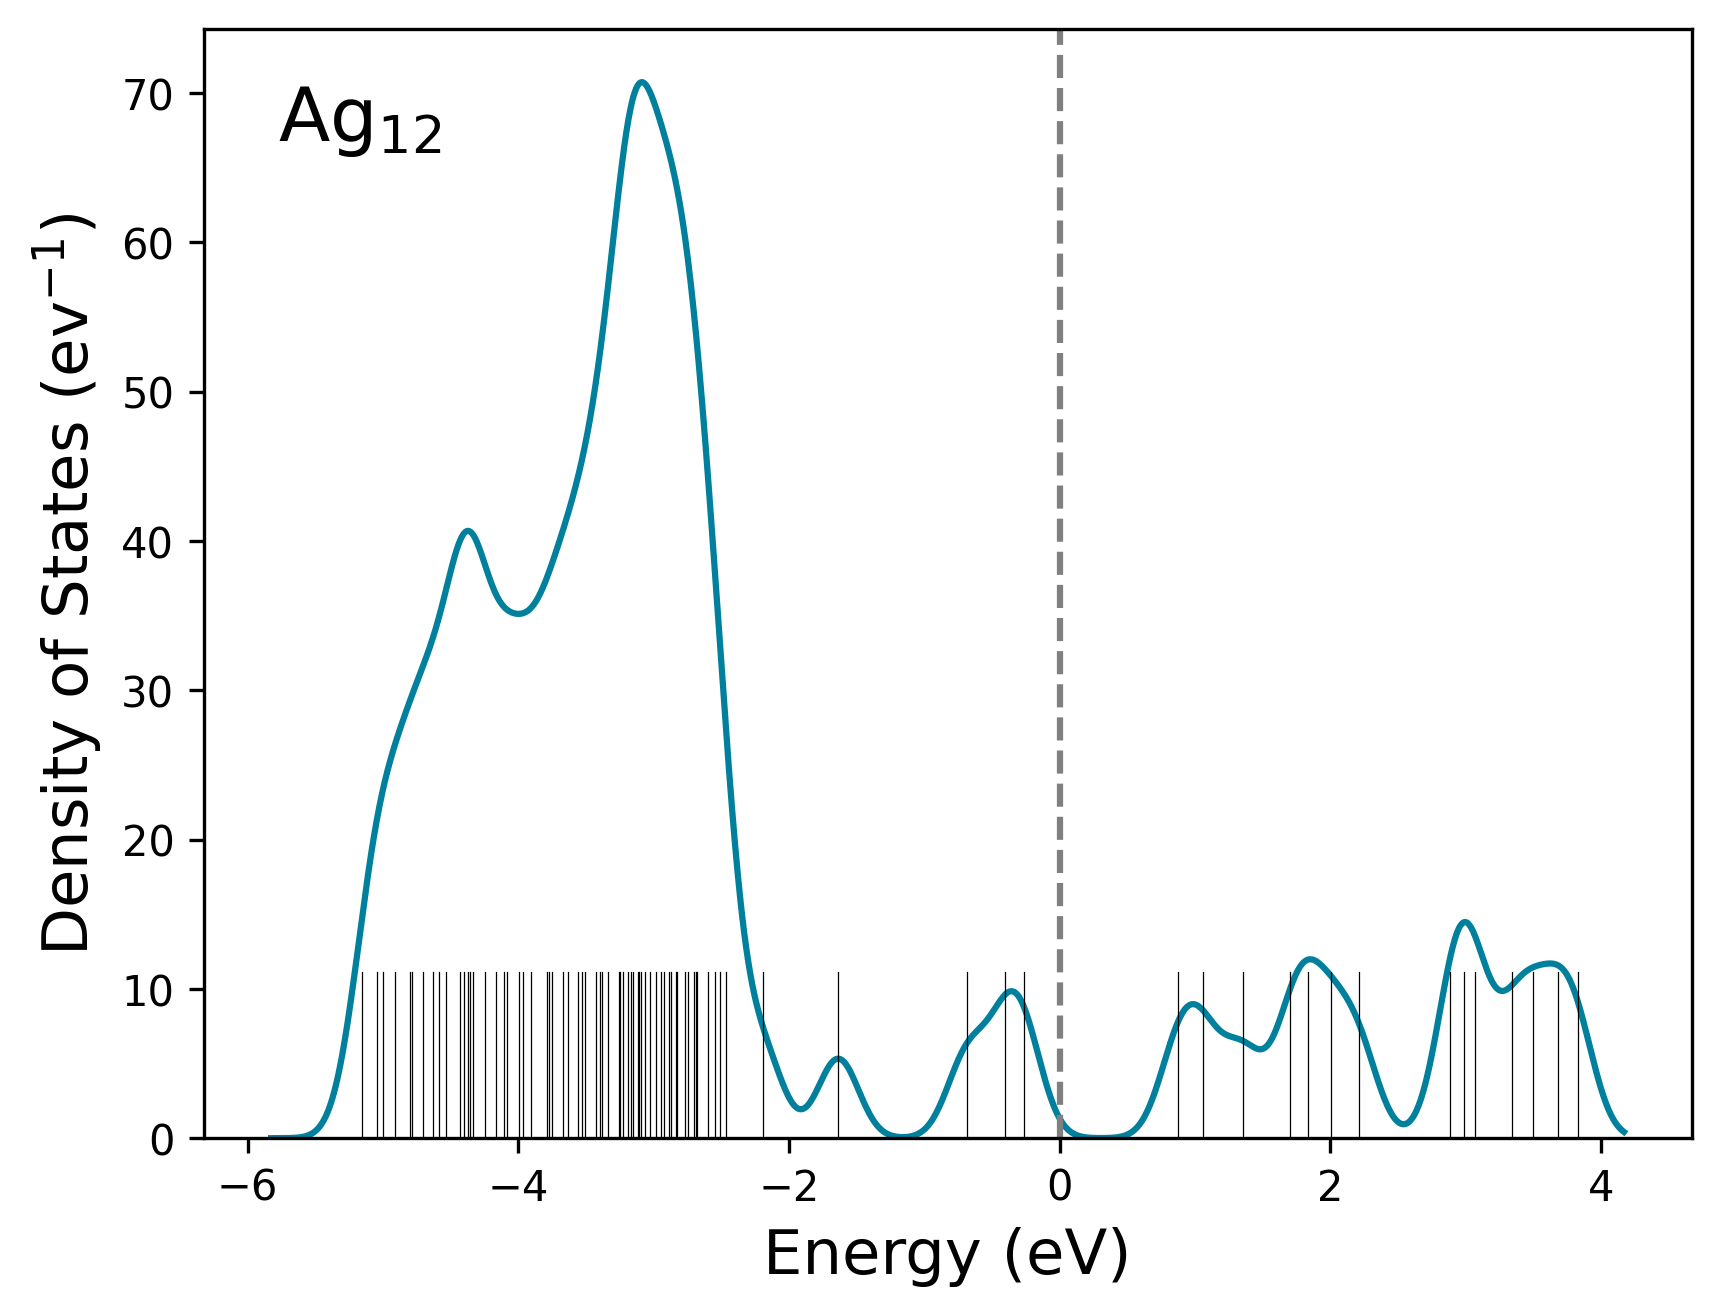
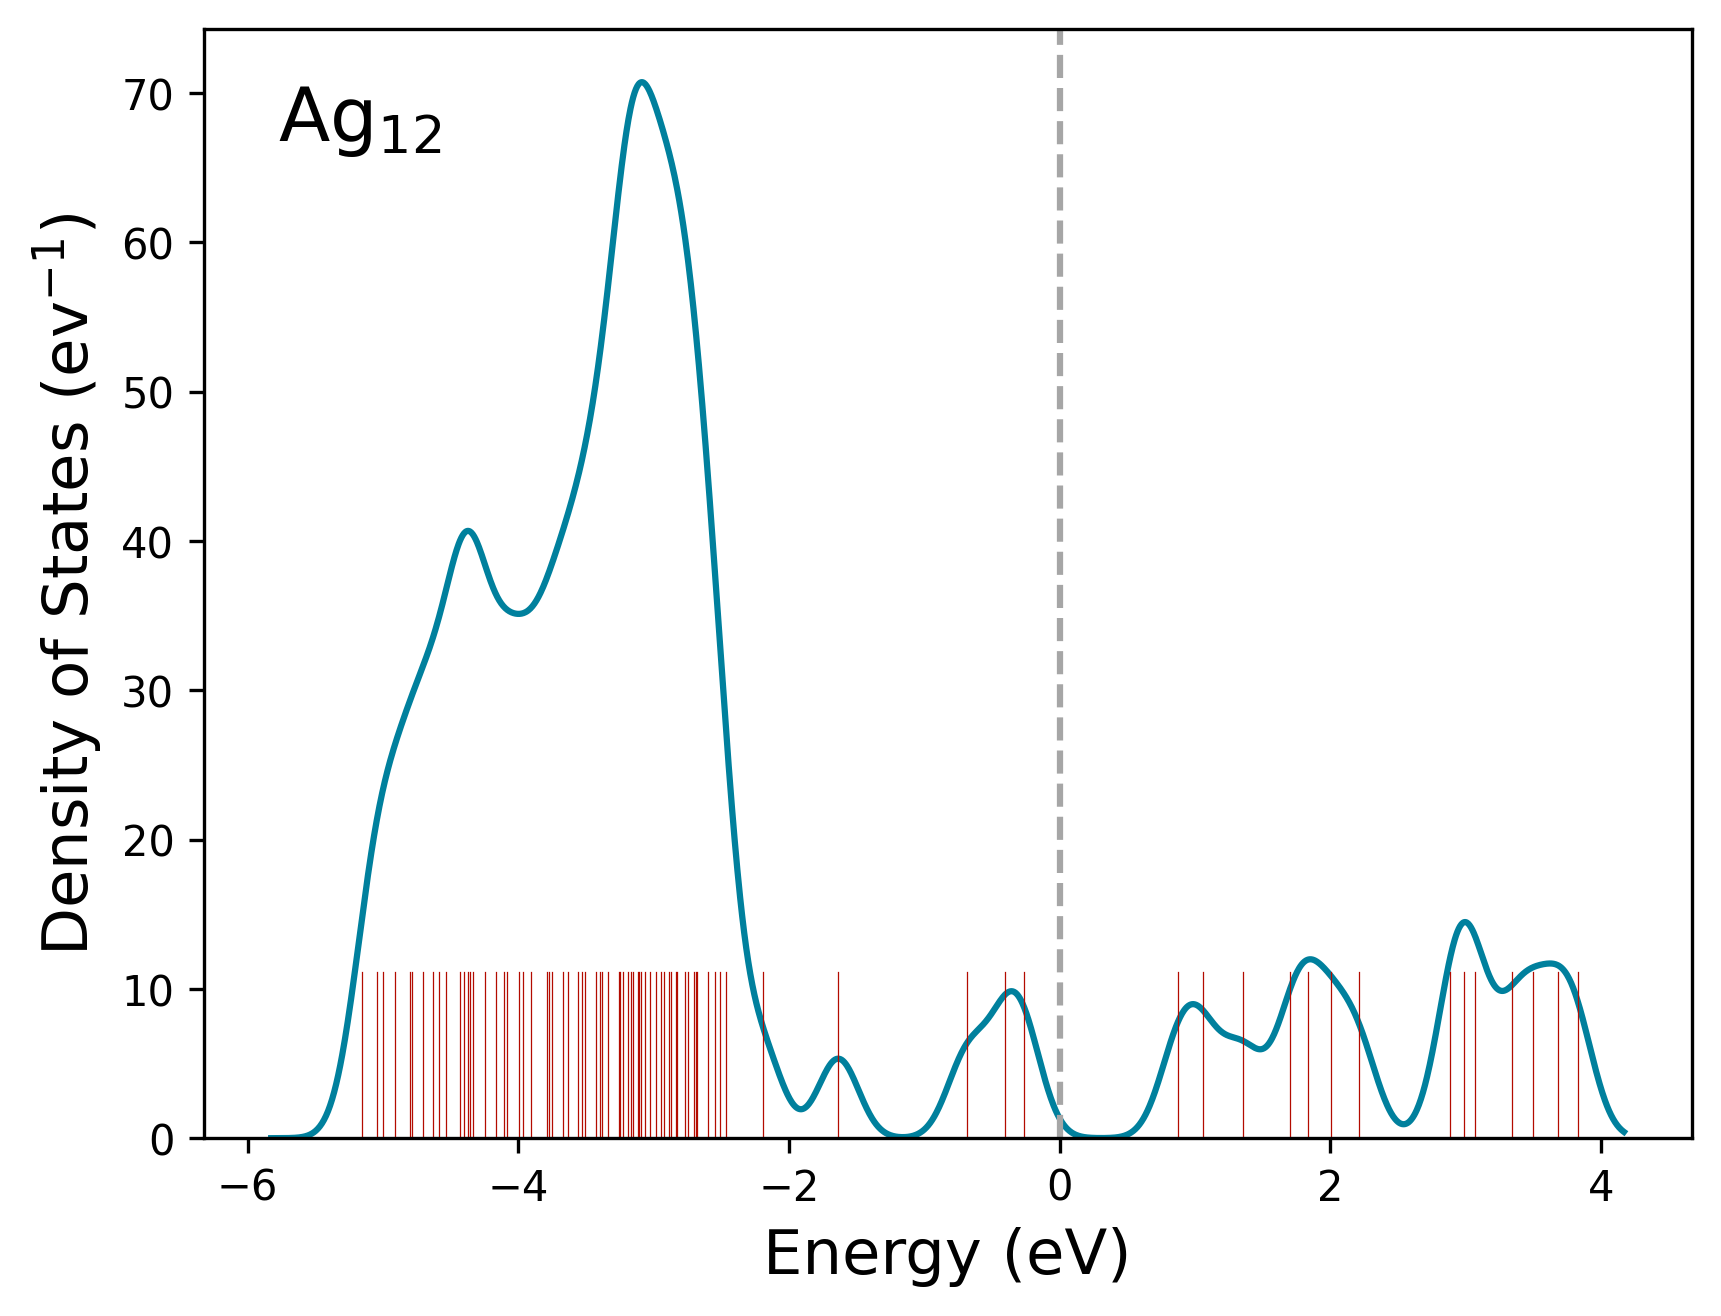
modified:   DOS_plot/DOS_images/10-c1-10-39.png 	modified:   DOS_plot/DOS_images/12-c1-7-75.png 	modified:   DOS_plot/DOS_images/13-c2-1-71.png 	modified:   DOS_plot/DOS_images/14-c1-6-39.png 	modified:   DOS_plot/DOS_images/17-c1-1-39.png 	modified:   DOS_plot/dos_plot.py

Changed region(s): [[0.2156, 0.7477, 0.4311, 0.8723]]

diff --git a/DOS_plot/dos_plot.py b/DOS_plot/dos_plot.py
@@ -65,7 +65,7 @@ def eigenval_plot(eigenval_path,feimi_energy_path):
     lines2 = f2.readlines()
     fermi = float(lines2[1].split()[0])
     for i in energy:
-        plt.axvline(x = i-fermi,ymin=0,ymax=0.15,linestyle='-',lw=0.3, c="black")
+        plt.axvline(x = i-fermi,ymin=0,ymax=0.15,linestyle='-',lw=0.3, c="#b30b00")
 
 
 def png_name(poscar_path):
@@ -94,7 +94,7 @@ def vasp_formula(vasp_path):
 
 def save_png(text,save_path):
     plt.text(0.05, 0.90,s=text,fontdict={'family' : 'Arial', 'size':18}, transform=plt.gca().transAxes)
-    plt.axvline(x=0,ymin=0,ymax=1,linestyle='--',c="grey")
+    plt.axvline(x=0,ymin=0,ymax=1,linestyle='--',c="#a6a6a6")
     plt.xlabel("Energy (eV)",fontsize=15)
     plt.ylabel("Density of States (ev$^{-1}$)",fontsize=15)
     plt.ylim(bottom=0)
